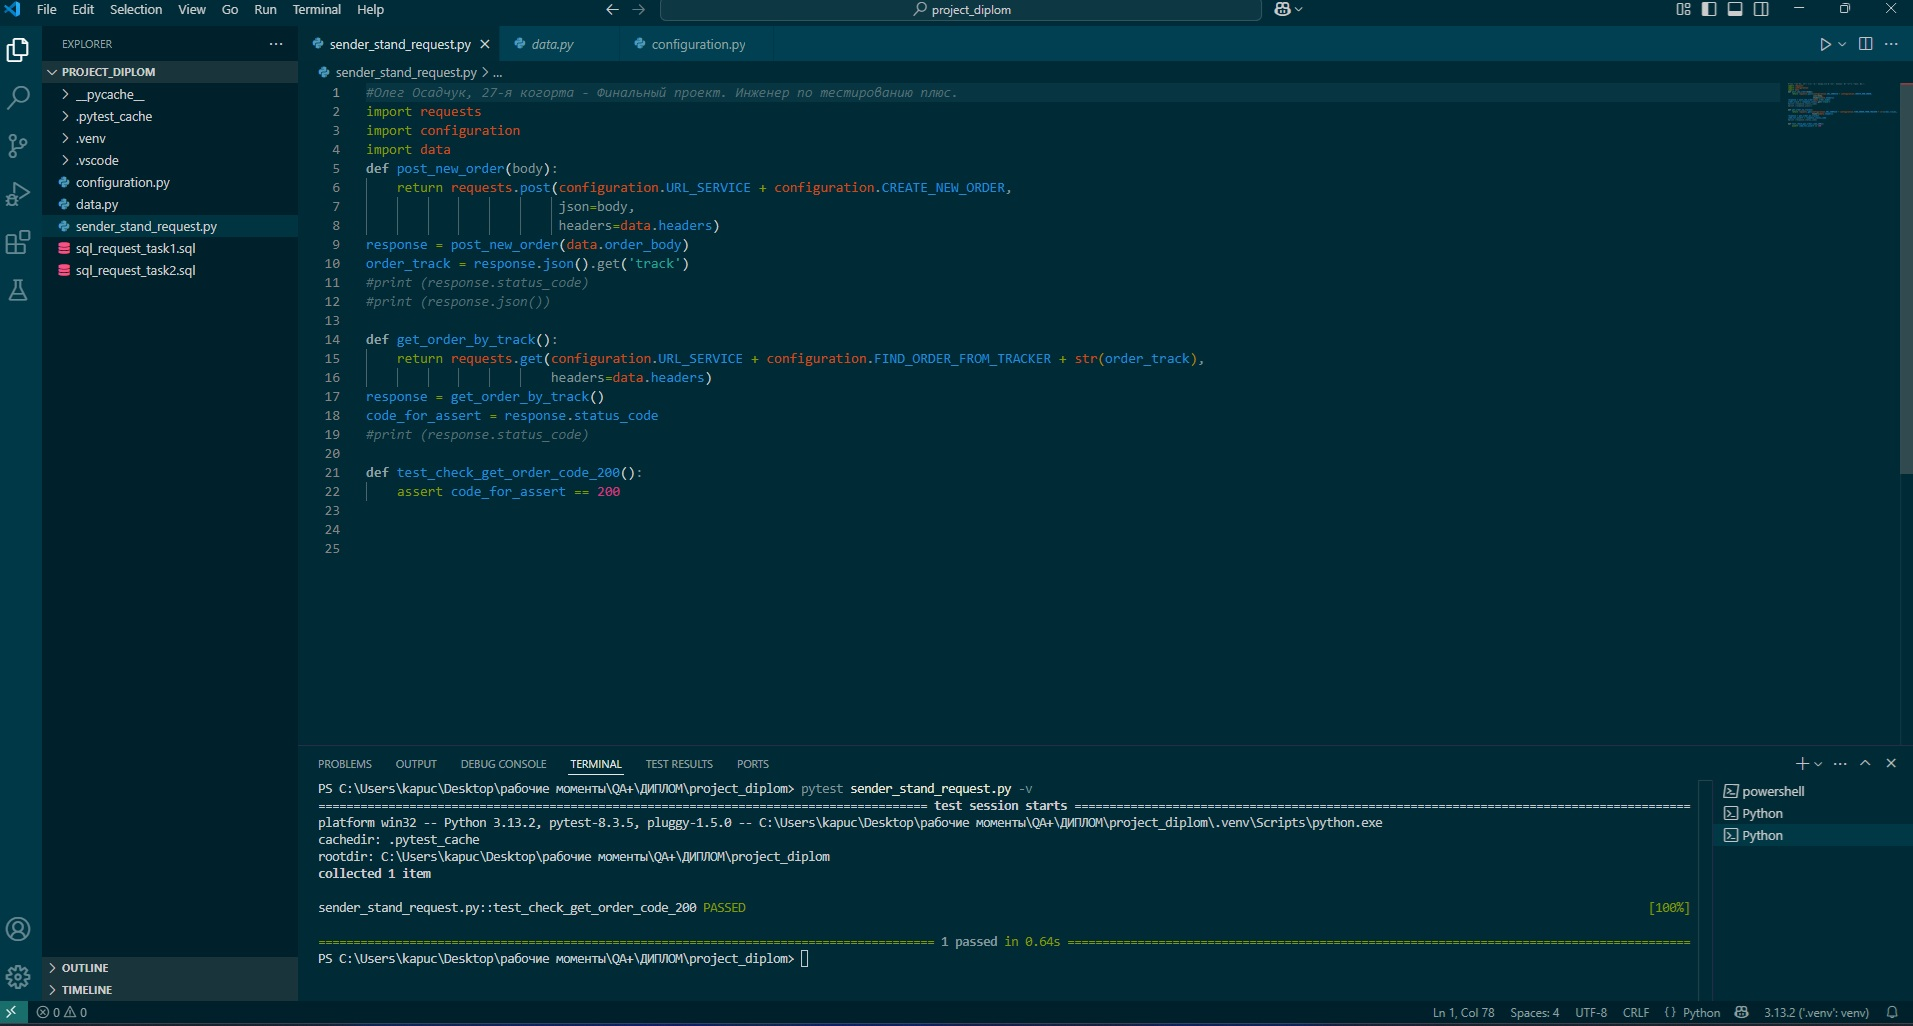
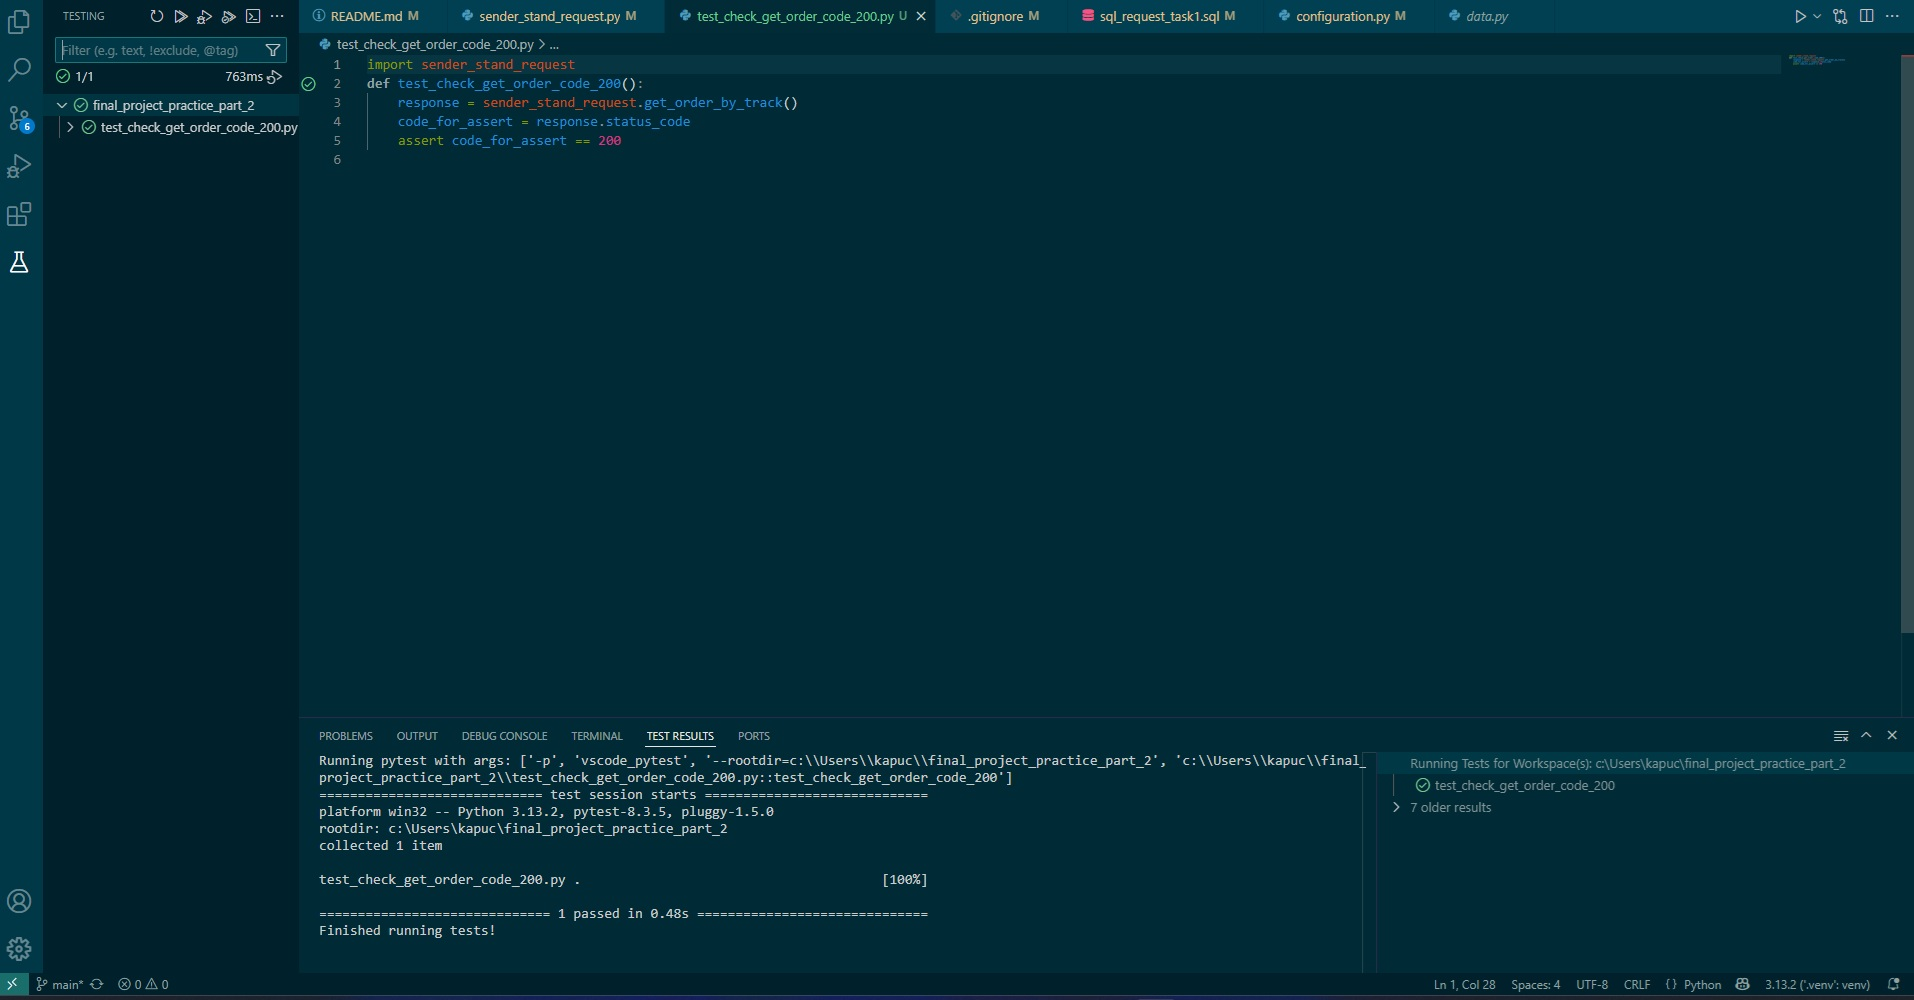
Внесение изменений, исходя из результатов ревью.

diff --git a/sender_stand_request.py b/sender_stand_request.py
@@ -8,17 +8,9 @@ def post_new_order(body):
                          headers=data.headers)
 response = post_new_order(data.order_body)
 order_track = response.json().get('track')
-#print (response.status_code)
-#print (response.json())
 
 def get_order_by_track():
     return requests.get(configuration.URL_SERVICE + configuration.FIND_ORDER_FROM_TRACKER + str(order_track),
                         headers=data.headers)
-response = get_order_by_track()
-code_for_assert = response.status_code
-#print (response.status_code)
-
-def test_check_get_order_code_200():
-    assert code_for_assert == 200
     
 

diff --git a/configuration.py b/configuration.py
@@ -1,3 +1,3 @@
-URL_SERVICE = "https://cb63bb95-647d-4027-9a7b-83395c79d7b4.serverhub.praktikum-services.ru"
+URL_SERVICE = "https://4267dc4c-af90-4531-8c07-b870c1efb2ce.serverhub.praktikum-services.ru"
 CREATE_NEW_ORDER = "/api/v1/orders"
 FIND_ORDER_FROM_TRACKER = "/api/v1/orders/track?t="

diff --git a/test_check_get_order_code_200.py b/test_check_get_order_code_200.py
@@ -1,0 +1,5 @@
+import sender_stand_request
+def test_check_get_order_code_200():
+    response = sender_stand_request.get_order_by_track()
+    code_for_assert = response.status_code
+    assert code_for_assert == 200

diff --git a/README.md b/README.md
@@ -5,4 +5,4 @@
 3. Осуществляется запрос на получения заказа по треку заказа.
 4. Проверяется, что код ответа равен 200.
 - Для запуска тестов должны быть установлены пакеты pytest и requests
-- Запуск всех тестов выполняется командой pytest
+- Запуск всех тестов осуществляется через раздел боковой панели "Testing"
